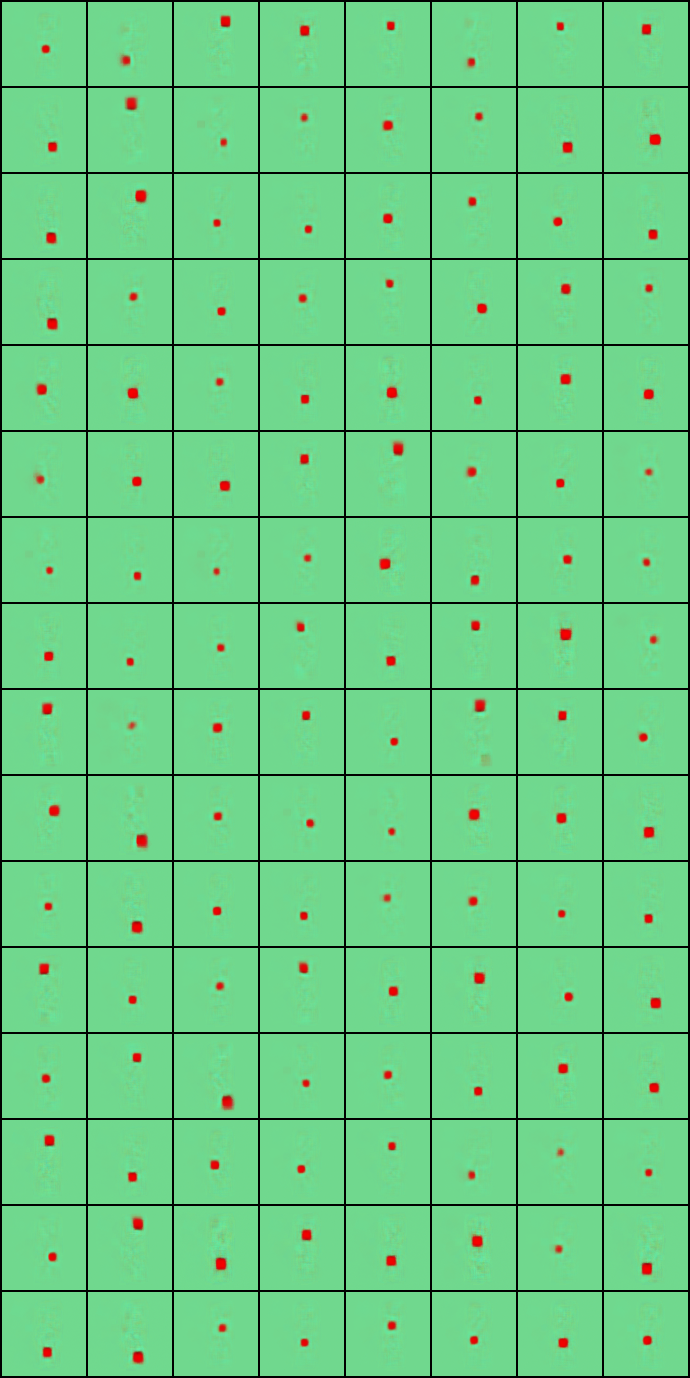
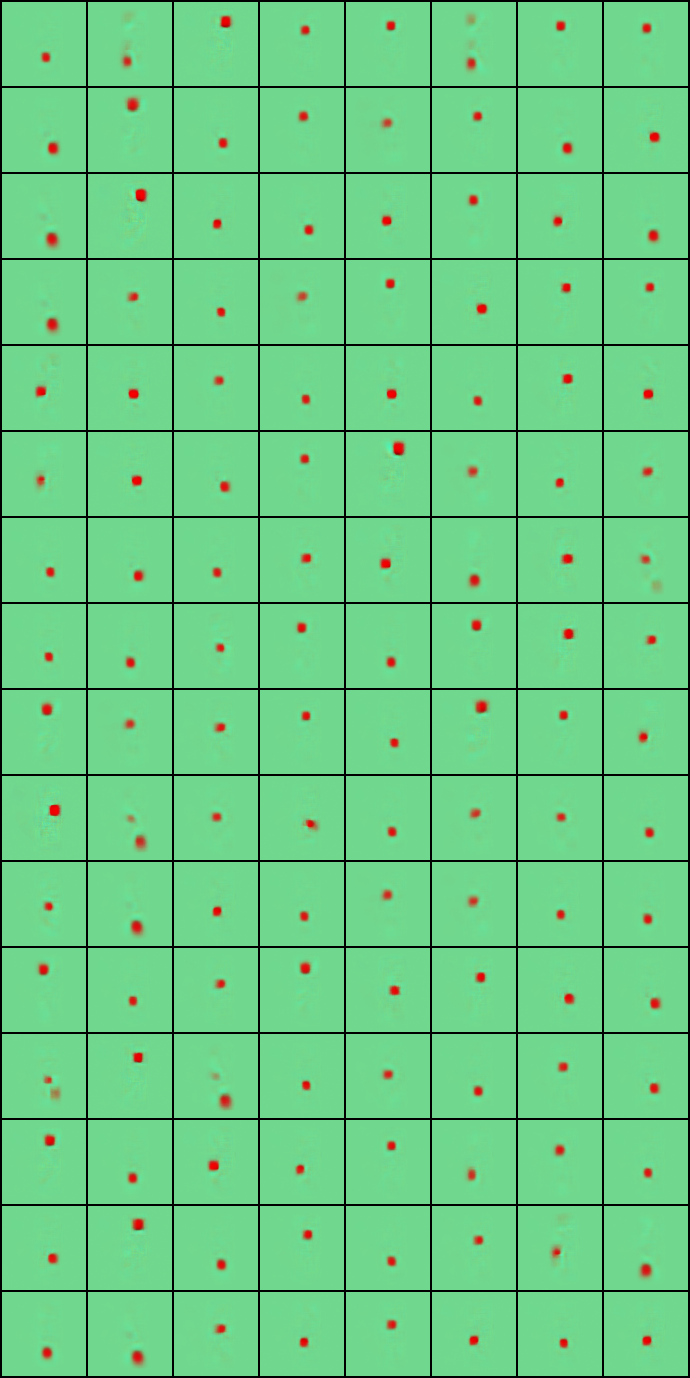
Pick and Place

diff --git a/gym/gym/envs/robotics/fetch/pick_and_place.py b/gym/gym/envs/robotics/fetch/pick_and_place.py
@@ -14,8 +14,12 @@ MODEL_XML_PATH = os.path.join('fetch', 'pick_and_place.xml')
 # Change to normal hgg
 # edit envs/fetch/interval
 # edit fetch_env: sample_goal
-# edit robot_env: get_obs
+# edit fetch_env: get_obs
 # edit here: sample_goal
+# edit here: dist_threshold
+# edit fetch_env: goal_distance
+# edit fetch_env: _is_success
+# edit fetch_env: compute_reward
 
 
 class FetchPickAndPlaceEnv(fetch_env.FetchEnv, utils.EzPickle):
@@ -44,60 +48,83 @@ class FetchPickAndPlaceEnv(fetch_env.FetchEnv, utils.EzPickle):
     self.viewer.cam.elevation = 90.
     '''
 
-    def _sample_goal_new(self):
-        index = np.random.randint(20)
+    def _sample_goal(self):
+        index = np.random.randint(10) + 3
         goal_0 = goal_set_fetch_pick_0[index]
-        goal_1 = goal_set_fetch_pick_1[index]
+        #goal_1 = goal_set_fetch_pick_1[index]
         goal_0 = self.fetch_pick_vae_0.format(goal_0)
-        goal_1 = self.fetch_pick_vae_1.format(goal_1)
+        #goal_1 = self.fetch_pick_vae_1.format(goal_1)
         save_image(goal_0.cpu().view(-1, 3, self.img_size, self.img_size), 'videos/goal/goal_0.png')
-        save_image(goal_1.cpu().view(-1, 3, self.img_size, self.img_size), 'videos/goal/goal_1.png')
+        #save_image(goal_1.cpu().view(-1, 3, self.img_size, self.img_size), 'videos/goal/goal_1.png')
 
         x_0, y_0 = self.fetch_pick_vae_0.encode(goal_0)
-        x_1, y_1 = self.fetch_pick_vae_1.encode(goal_1)
+        #x_1, y_1 = self.fetch_pick_vae_1.encode(goal_1)
         goal_0 = self.fetch_pick_vae_0.reparameterize(x_0, y_0)
-        goal_1 = self.fetch_pick_vae_1.reparameterize(x_1, y_1)
+        #goal_1 = self.fetch_pick_vae_1.reparameterize(x_1, y_1)
         goal_0 = goal_0.detach().cpu().numpy()
-        goal_1 = goal_1.detach().cpu().numpy()
+        #goal_1 = goal_1.detach().cpu().numpy()
 
-        goal = np.concatenate((np.squeeze(goal_0), np.squeeze(goal_1)))
-        goal /= 9.1
+        #goal = np.concatenate((np.squeeze(goal_0), np.squeeze(goal_1)))
+        goal = np.squeeze(goal_0)
+        # goal /= 5.1
 
         return goal.copy()
 
     def _get_image(self):
         rgb_array_0 = np.array(self.render(mode='rgb_array', width=84, height=84, cam_name="cam_0"))
-        rgb_array_1 = np.array(self.render(mode='rgb_array', width=84, height=84, cam_name="cam_1"))
+        #rgb_array_1 = np.array(self.render(mode='rgb_array', width=84, height=84, cam_name="cam_1"))
         tensor_0 = self.fetch_pick_vae_0.format(rgb_array_0)
-        tensor_1 = self.fetch_pick_vae_1.format(rgb_array_1)
+        #tensor_1 = self.fetch_pick_vae_1.format(rgb_array_1)
         x_0, y_0 = self.fetch_pick_vae_0.encode(tensor_0)
-        x_1, y_1 = self.fetch_pick_vae_1.encode(tensor_1)
+        #x_1, y_1 = self.fetch_pick_vae_1.encode(tensor_1)
         obs_0 = self.fetch_pick_vae_0.reparameterize(x_0, y_0)
-        obs_1 = self.fetch_pick_vae_1.reparameterize(x_1, y_1)
+        #obs_1 = self.fetch_pick_vae_1.reparameterize(x_1, y_1)
         obs_0 = obs_0.detach().cpu().numpy()
-        obs_1 = obs_1.detach().cpu().numpy()
+        #obs_1 = obs_1.detach().cpu().numpy()
 
-        obs = np.concatenate((np.squeeze(obs_0), np.squeeze(obs_1)))
-        obs /= 9.1
+        #obs = np.concatenate((np.squeeze(obs_0), np.squeeze(obs_1)))
+        obs = np.squeeze(obs_0)
+        # obs /= 5.1
 
         save_image(tensor_0.cpu().view(-1, 3, 84, 84), 'fetch_pick_0.png')
-        save_image(tensor_1.cpu().view(-1, 3, 84, 84), 'fetch_pick_1.png')
+        #save_image(tensor_1.cpu().view(-1, 3, 84, 84), 'fetch_pick_1.png')
         return obs
 
     def _generate_state(self):
         if self.visible:
             self._set_arm_visible(False)
             self.visible = False
-        goal = [random.uniform(1.15, 1.45), random.uniform(0.6, 1.0), random.uniform(0.43, .7)]
+        goal = [random.uniform(1.15, 1.45), random.uniform(0.6, 1.0), 0.43]
+        # goal = [1.3, .7, .432]
         object_qpos = self.sim.data.get_joint_qpos('object0:joint')
         object_qpos[:3] = goal[:3]
         object_qpos[3:] = [1, 0, 0, 0]
         self.sim.data.set_joint_qpos('object0:joint', object_qpos)
-        for _ in range(5):
+        for _ in range(2):
+            self.sim.step()
+
+        # Check if inside checkbox:
+        pos = self.sim.data.get_joint_qpos('object0:joint').copy()
+        if pos[0] < 1.15 or pos[0] > 1.45 or pos[1] < 0.6 or pos[1] > 1.0 or pos[2] < 0.42 or pos[2] > .7:
+            self._generate_state()
+        # latent = self._get_image()
+
+        '''
+        goal = [1.31, .71, .4321]
+        object_qpos = self.sim.data.get_joint_qpos('object0:joint')
+        object_qpos[:3] = goal[:3]
+        object_qpos[3:] = [1, 0, 0, 0]
+        self.sim.data.set_joint_qpos('object0:joint', object_qpos)
+        for _ in range(2):
             self.sim.step()
         # Check if inside checkbox:
-        pos = self.sim.data.get_joint_qpos('object0:joint')
-        if pos[0] < 1.15 or pos[0] > 1.45 or pos[1] < 0.6 or pos[1] > 1.0 or pos[2] < 0.43 or pos[2] > .7:
+        pos1 = self.sim.data.get_joint_qpos('object0:joint')
+        if pos1[0] < 1.15 or pos1[0] > 1.45 or pos1[1] < 0.6 or pos1[1] > 1.0 or pos1[2] < 0.42 or pos1[2] > .7:
             self._generate_state()
+        latent1 = self._get_image()
 
+        print(np.linalg.norm(pos - pos1, axis=-1))
+        print(np.linalg.norm(latent1[:2] - latent[:2], axis=-1))
+        print(np.linalg.norm(latent1[2:] - latent[2:], axis=-1))
+        '''
         self._step_callback()

diff --git a/vae/fetch_vae/vae_fetch_pick_0.py b/vae/fetch_vae/vae_fetch_pick_0.py
@@ -17,9 +17,9 @@ class VAE(nn.Module):
         super(VAE, self).__init__()
         self.fc1 = nn.Linear(img_size * img_size * 3, 400)
         # Try to reduce
-        self.fc21 = nn.Linear(400, 3)
-        self.fc22 = nn.Linear(400, 3)
-        self.fc3 = nn.Linear(3, 400)
+        self.fc21 = nn.Linear(400, 2)
+        self.fc22 = nn.Linear(400, 2)
+        self.fc3 = nn.Linear(2, 400)
         self.fc4 = nn.Linear(400, img_size * img_size * 3)
 
     def encode(self, x):
@@ -29,13 +29,12 @@ class VAE(nn.Module):
     def reparameterize(self, mu, logvar):
         std = torch.exp(0.5 * logvar)
         eps = torch.randn_like(std)
-        return (mu + eps * std)
-        #return mu
+        # return (mu + eps * std)
+        return mu * 0.289
 
-    # maybe z * 11
     def decode(self, z):
         h3 = F.relu(self.fc3(z))
-        return torch.sigmoid(self.fc4(h3))
+        return torch.sigmoid(self.fc4(h3) / 0.289)
 
     def forward(self, x):
         mu, logvar = self.encode(x.reshape(-1, img_size * img_size * 3))
@@ -52,6 +51,8 @@ class VAE(nn.Module):
 
 # Reconstruction + KL divergence losses summed over all elements and batch
 def loss_function(recon_x, x, mu, logvar):
+    # Disentanglement
+    Beta = 5
     BCE = F.binary_cross_entropy(recon_x, x.reshape(-1, img_size * img_size * 3), reduction='sum')
 
     # see Appendix B from VAE paper:
@@ -60,9 +61,9 @@ def loss_function(recon_x, x, mu, logvar):
     # 0.5 * sum(1 + log(sigma^2) - mu^2 - sigma^2)
 
     # Try to adjust
-    KLD = -3 * torch.sum(1 + logvar - mu.pow(2) - logvar.exp())
+    KLD = -0.5 * torch.sum(1 + logvar - mu.pow(2) - logvar.exp())
 
-    return BCE + KLD
+    return BCE + (Beta * KLD)
 
 
 # torch.Size([128, 1, img_size, img_size])
@@ -95,7 +96,7 @@ def train(epoch, model, optimizer, device, log_interval, batch_size):
                 epoch, (batch_idx+1) * len(data), data_size,
                 100. * (batch_idx+1) / len(data_set),
                 loss.item() / len(data)))
-            print('Loss: ', loss.item() / len(data))
+            print('Loss: ', loss.item() / data_size)
 
     print('====> Epoch: {} Average loss: {:.4f}'.format(
         epoch, train_loss / data_size))
@@ -158,5 +159,5 @@ def load_Vae(path, no_cuda=False, seed=1):
 if __name__ == '__main__':
     # Train VAE
     print('Train VAE...')
-    train_Vae(batch_size=128, epochs=100, load=True)
+    train_Vae(batch_size=128, epochs=200, load=False)
     print('Successfully trained VAE')

diff --git a/gym/gym/envs/robotics/robot_env.py b/gym/gym/envs/robotics/robot_env.py
@@ -94,8 +94,8 @@ class RobotEnv(gym.GoalEnv):
         }
         reward = self.compute_reward(obs['achieved_goal'], self.goal, info)
         # Debug: Check if VAE encodes correctly
-        # ach1 = torch.from_numpy(obs['achieved_goal']).float().to('cuda')
-        # save_image(self.hand_vae_reach.decode(ach1).view(-1, 3, 84, 84), 'ach_latent.png')
+        # ach1 = torch.from_numpy(obs['achieved_goal'][3:]).float().to('cuda')
+        # save_image(self.fetch_pick_vae_1.decode(ach1*9.1).view(-1, 3, 84, 84), 'ach_latent.png')
         return obs, reward, done, info
 
     def reset(self):
@@ -112,10 +112,12 @@ class RobotEnv(gym.GoalEnv):
         obs = self._get_obs()
 
         # Generate state
+        # self._generate_state()
+
         '''
-        train_data_0 = np.empty([1280*9, 84, 84, 3])
-        train_data_1 = np.empty([1280*9, 84, 84, 3])
-        for i in range(1280*9):
+        train_data_0 = np.empty([1280, 84, 84, 3])
+        train_data_1 = np.empty([1280, 84, 84, 3])
+        for i in range(1280):
             self._generate_state()
             img_0 = self.render(width=84, height=84, cam_name='cam_0')
             img_1 = self.render(width=84, height=84, cam_name='cam_1')
@@ -127,11 +129,12 @@ class RobotEnv(gym.GoalEnv):
             train_data_1[i] = img_1
             if i % 1000 == 0:
                 print(i)
-        np.save('data/Fetch_Env/vae_train_data_pick_0', train_data_0)
-        np.save('data/Fetch_Env/vae_train_data_pick_1', train_data_1)
+        np.save('data/Fetch_Env/vae_goal_pick_0', train_data_0)
+        np.save('data/Fetch_Env/vae_goal_pick_1', train_data_1)
         print('Finished')
         sys.exit()
         '''
+
         return obs
 
     def close(self):

diff --git a/gym/gym/envs/robotics/fetch_env.py b/gym/gym/envs/robotics/fetch_env.py
@@ -114,11 +114,13 @@ class FetchEnv(robot_env.RobotEnv):
         gripper_vel = robot_qvel[-2:] * dt  # change to a scalar if the gripper is made symmetric
 
         if not self.has_object:
-            achieved_goal = grip_pos.copy()
-            # achieved_goal = self._get_image()
+            # achieved_goal = grip_pos.copy()
+            achieved_goal = self._get_image()
         else:
-            achieved_goal = np.squeeze(object_pos.copy())
-            # achieved_goal = self._get_image()
+            # achieved_goal = np.squeeze(object_pos.copy())
+            self._set_arm_visible(False)
+            achieved_goal = self._get_image()
+            self._set_arm_visible()
 
         obj_pos = np.squeeze(object_pos.copy())
         obs = np.concatenate([
@@ -168,7 +170,7 @@ class FetchEnv(robot_env.RobotEnv):
         self.sim.forward()
         return True
 
-    def _sample_goal(self):
+    def _sample_goal_old(self):
         if self.has_object:
             goal = self.initial_gripper_xpos[:3] + self.np_random.uniform(-self.target_range, self.target_range, size=3)
             goal += self.target_offset
@@ -185,7 +187,9 @@ class FetchEnv(robot_env.RobotEnv):
 
     def _is_success(self, achieved_goal, desired_goal):
         d = goal_distance(achieved_goal, desired_goal)
-        return (d < self.distance_threshold).astype(np.float32)
+        # Extra height
+        h = np.linalg.norm(achieved_goal[2:] - desired_goal[2:], axis=-1)
+        return (d < self.distance_threshold).astype(np.float32) and (h < 0.8).astype(np.float32)
 
     def _env_setup(self, initial_qpos):
         for name, value in initial_qpos.items():

diff --git a/vae/import_vae.py b/vae/import_vae.py
@@ -30,7 +30,7 @@ vae_hand_reach = VAE_HAND_REACH.load_Vae(path='data/Hand_Env/vae_model_reach')
 goal_set_fetch_push = np.load('data/Fetch_Env/push_goal_set.npy')
 goal_set_fetch_reach = np.load('data/Fetch_Env/reach_goal_set.npy')
 goal_set_fetch_slide = np.load('data/Fetch_Env/slide_goal_set.npy')
-goal_set_fetch_pick_0 = np.load('data/Fetch_Env/pick_goal_set_0.npy')
+goal_set_fetch_pick_0 = np.load('data/Fetch_Env/pick_goal_set_000.npy')
 goal_set_fetch_pick_1 = np.load('data/Fetch_Env/pick_goal_set_1.npy')
 
 # Hand
@@ -41,10 +41,10 @@ goal_set_reach = np.load('data/Hand_Env/reach_goal_set_500.npy')
 
 
 # Setup new goalset
-#old_training_data_0 = np.load('data/Fetch_Env/vae_train_data_pick_0.npy')
+#old_training_data_0 = np.load('data/Fetch_Env/vae_goal_pick_0.npy')
 #old_training_data_1 = np.load('data/Fetch_Env/vae_train_data_pick_1.npy')
 #index = np.random.choice(old_training_data_0.shape[0], 20, replace=False)
 #goal_set_0 = old_training_data_0[index]
 #goal_set_1 = old_training_data_1[index]
-#np.save('data/Fetch_Env/pick_goal_set_0.npy', goal_set_0)
+#np.save('data/Fetch_Env/pick_goal_set_000.npy', goal_set_0)
 #np.save('data/Fetch_Env/pick_goal_set_1.npy', goal_set_1)

diff --git a/play_new.py b/play_new.py
@@ -43,7 +43,8 @@ class Player:
         acc_sum, obs = 0.0, []
         for i in range(self.test_rollouts):
             obs.append(goal_based_process(env.reset()))
-            goal_img = Image.open('videos/goal/goal.png')
+            goal_img_rgb = Image.open('videos/goal/goal_0.png')
+
             for timestep in range(25):
                 actions = self.my_step_batch(obs)
                 obs, infos = [], []
@@ -51,7 +52,8 @@ class Player:
                 obs.append(goal_based_process(ob))
                 infos.append(info)
                 # if not timestep % 1:
-                rgb_array = np.array(env.render(mode='rgb_array', width=512, height=512))
+                rgb_array = np.array(env.render(mode='rgb_array', width=512, height=512, cam_name="cam_0"))
+
                 path = 'videos/frames/frame_' + str(i * 50 + timestep) + '.png'
                 rgb_array = self.get_concat_h(Image.fromarray(rgb_array), goal_img)
                 rgb_array.save(path)

diff --git a/common.py b/common.py
@@ -45,7 +45,7 @@ def get_args():
 	parser.add_argument('--act_l2', help='quadratic penalty on actions', type=np.float32, default=1.0)
 	parser.add_argument('--polyak', help='interpolation factor in polyak averaging for DDPG', type=np.float32, default=0.95)
 
-	parser.add_argument('--epoches', help='number of epoches', type=np.int32, default=20)
+	parser.add_argument('--epoches', help='number of epoches', type=np.int32, default=40)
 	parser.add_argument('--cycles', help='number of cycles per epoch', type=np.int32, default=20)
 	parser.add_argument('--episodes', help='number of episodes per cycle', type=np.int32, default=50)
 	parser.add_argument('--timesteps', help='number of timesteps per episode', type=np.int32, default=(50 if args.env[:5] == 'Fetch' else 100))

diff --git a/learner/hgg.py b/learner/hgg.py
@@ -69,7 +69,7 @@ class MatchSampler:
 		# 0.46 Normal Fetch Push # 5.796451 / 3.06 Image-based Fetch Push
 		# 0.25 Normal Fetch Reach # 5.263001 Image-based Fetch Reach
 		# 0.648 Normal Fetch Slide # ? Image-based Fetch Slide
-		# 0.616 Normal Fetch Pick # 5.5 Image-based Fetch Pick
+		# 0.616 Normal Fetch Pick # 2.1 Image-based Fetch Pick
 
 		self.max_dis = 0
 		for i in range(1000):

diff --git a/envs/fetch/interval.py b/envs/fetch/interval.py
@@ -6,7 +6,7 @@ class IntervalGoalEnv(FixedObjectGoalEnv):
 	def __init__(self, args):
 		FixedObjectGoalEnv.__init__(self, args)
 
-	def generate_goal(self):
+	def generate_goal_old(self):
 		if self.has_object:
 			goal = self.initial_gripper_xpos[:3] + self.target_offset
 			if self.args.env=='FetchSlide-v1':

diff --git a/envs/fetch/fixobj.py b/envs/fetch/fixobj.py
@@ -23,6 +23,7 @@ class FixedObjectGoalEnv(VanillaGoalEnv):
 			object_qpos[:2] = object_xpos
 			self.sim.data.set_joint_qpos('object0:joint', object_qpos)
 
+		# Goes to interval if defined
 		self.sim.forward()
 		self.goal = self.generate_goal()
 		self.last_obs = (self.get_obs()).copy()
